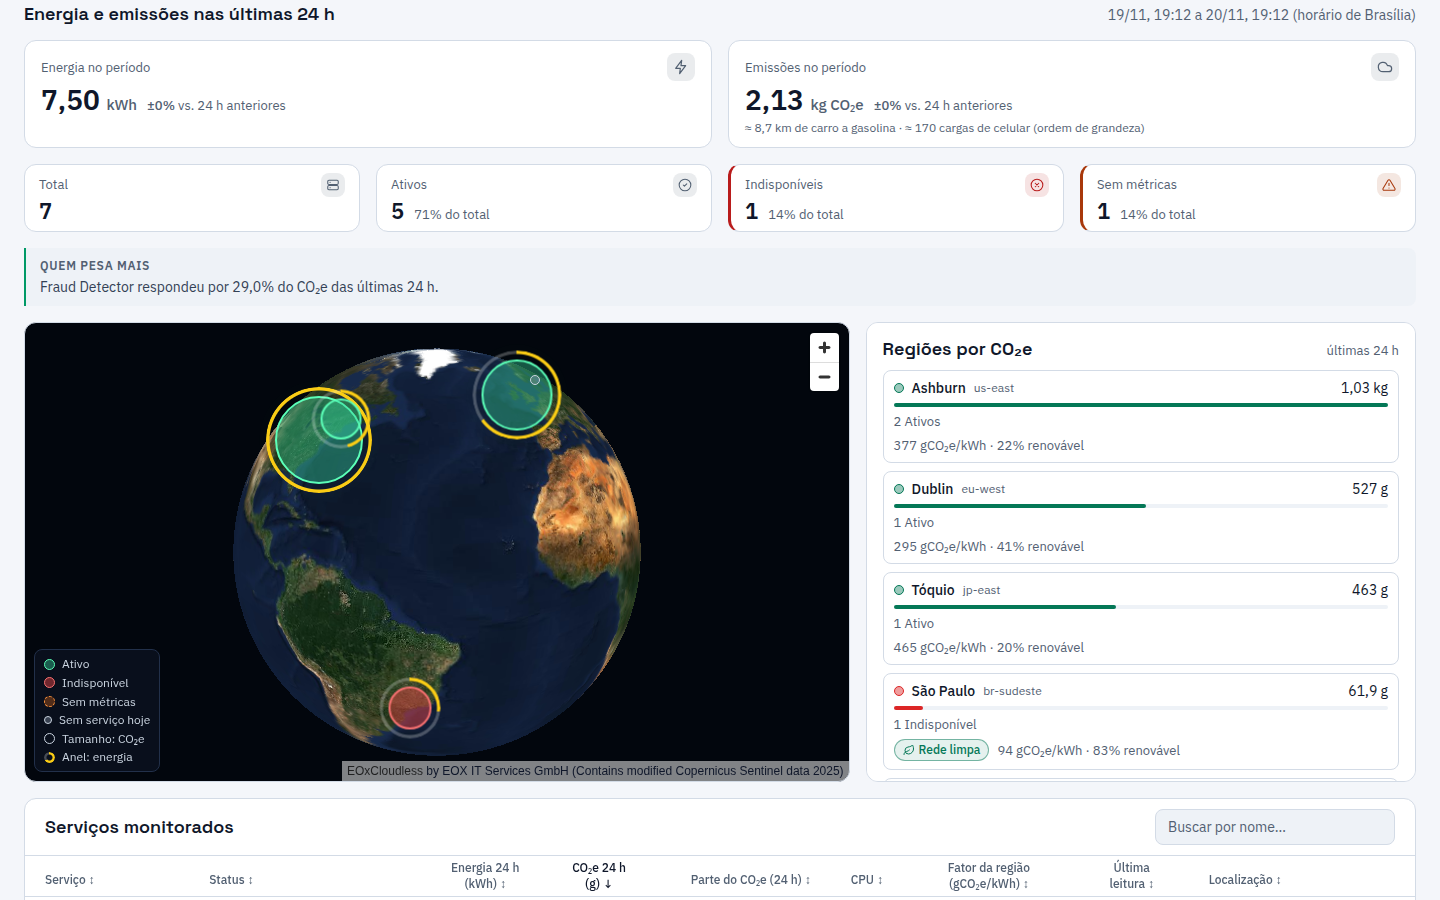
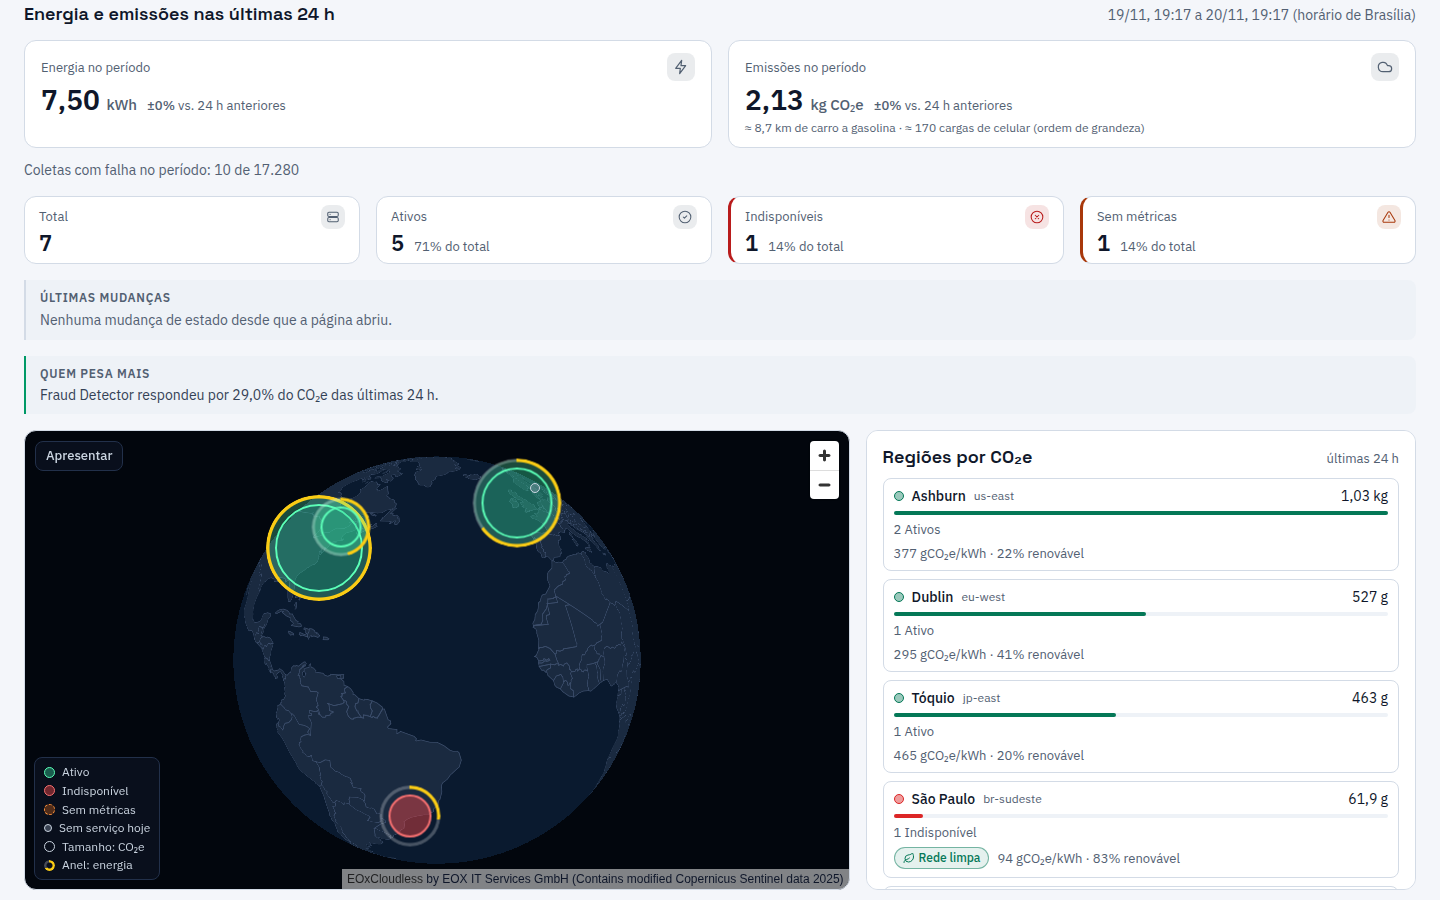
docs(docs): registra RF08 com print do painel (#234) [RF08]

diff --git a/frontend/README.md b/frontend/README.md
@@ -58,7 +58,7 @@ Lidas do `.env` da **raiz** do repositório (modelo em `.env.example`; `envDir: 
 - A mensagem diz o primeiro campo recusado, para quem investiga saber onde olhar: "O servidor respondeu num formato inesperado (services[3].id). Avise a equipe do backend." Um 2xx com corpo que não é JSON gera a mesma mensagem, sem o campo.
 - `monitoring.service.ts` confere `GET`/`PUT /monitoring-settings` (#176): intervalos inteiros maiores que zero, lista de valores não vazia e `updatedAt` em ISO 8601 ou `null`. O `statusReason` de `GET /services` é texto ou `null`, e a chave ausente vale `null`, para a tela funcionar antes e depois de o backend da #176 subir. O mesmo vale para os sete campos da última coleta (#297: `regionCode`, `collectionIntervalSeconds`, `memoryGb`, `diskGb`, `networkGb`, `powerWatts`, `carbonIntensityGco2ePerKwh`): ausentes valem `null`; presentes, precisam ser número ≥ 0 (o intervalo, inteiro ≥ 1) ou `null`, senão a resposta é recusada citando o campo.
 - `auth.service.ts` confere o `token` do login e o `id`/`email` de `GET /auth/me` (#25): um 200 sem token não abre sessão.
-- `fetchServicesSummary` (`GET /services/summary`) e `compare.service.ts` (`GET /services/compare`) conferem a resposta do mesmo jeito (#237): um campo fora do contrato recusa a resposta inteira. No dashboard, o painel de indicadores dá lugar ao erro com **Tentar novamente** (se já havia um resumo, ele continua apagado, como desatualizado); na Comparação, a página mostra o erro e não monta a tabela nem os gráficos.
+- `parseServicesSummaryResponse` (`GET /services/summary`, em `summary.service.ts`) e `compare.service.ts` (`GET /services/compare`) conferem a resposta do mesmo jeito (#237): um campo fora do contrato recusa a resposta inteira. No dashboard, o painel de indicadores dá lugar ao erro com **Tentar novamente** (se já havia um resumo, ele continua apagado, como desatualizado); na Comparação, a página mostra o erro e não monta a tabela nem os gráficos.
 - A página Emissões confere a sua de outro jeito: envelope inválido (`collections` ou `buckets` que não são lista, `totals` fora do formato) recusa a resposta, mas uma coleta ou um intervalo inválido fica de fora sozinho e é contado, e a página avisa quantos foram descartados. As funções `parseCollectionsPage` e `parseSeriesResponse` (`emissions.service.ts`) têm testes próprios.
 
 ## Menu no celular e tooltip único (#274)
@@ -93,11 +93,11 @@ Lidas do `.env` da **raiz** do repositório (modelo em `.env.example`; `envDir: 
 ## Indicadores agregados (RF08)
 
 - `IndicatorsPanel` fica no topo do dashboard, logo abaixo do cabeçalho e acima dos cards de estado (#259: o impacto vem primeiro), e mostra **Energia no período** e **Emissões no período** das **últimas 24 h**, na unidade que o valor pede ("841 Wh", "1,23 kWh", "301 g CO₂e"; [regra das unidades](#unidades-de-energia-e-emissão-271)), com o período no título em horário de Brasília (`timeZone: 'America/Sao_Paulo'`). O estado dos serviços fica só nos cards do `KpiPanel` (#21): o `services` de `GET /api/services/summary` é o estado **atual** e não depende do período, por isso o painel não o repete.
-- O `DashboardPage` chama `GET /api/services/summary` (por `fetchServicesSummary`, em `src/services/services.service.ts`) a cada ciclo do polling, **uma vez**: a resposta traz o período atual (`from`/`to`, as últimas 24 h) e o `previous` com as 24 h anteriores, de mesma duração (contrato de `docs/api.md`, #234). A nota de cada card é a variação com seta: "▲ 12,4% vs 24 h anteriores" em laranja (energia e CO₂e são métricas em que menos é melhor), "▼ 8,1%" em verde e "±0%" em cinza abaixo de 0,5%. De 100% a 999%, sem casa decimal ("▲ 880%"); acima de 999%, "▲ 10×+". Sem cálculo nas 24 h anteriores, a nota é "Sem cálculo no período anterior"; com total anterior zero, a nota é "— vs. 24 h anteriores" e o motivo fica no tooltip. O rótulo base é "vs. 24 h anteriores". O valor exato, com sinal e uma casa, também fica no tooltip; o leitor de tela ouve "subiu" ou "caiu" no lugar da seta.
+- O `DashboardPage` chama `GET /api/services/summary` (por `fetchServicesSummary`, em `src/services/summary.service.ts`, chamado pelo hook `useSummary`) a cada ciclo do polling, **uma vez**: a resposta traz o período atual (`from`/`to`, as últimas 24 h) e o `previous` com as 24 h anteriores, de mesma duração (contrato de `docs/api.md`, #234). A nota de cada card é a variação com seta: "▲ 12,4% vs 24 h anteriores" em laranja (energia e CO₂e são métricas em que menos é melhor), "▼ 8,1%" em verde e "±0%" em cinza abaixo de 0,5%. De 100% a 999%, sem casa decimal ("▲ 880%"); acima de 999%, "▲ 10×+". Sem cálculo nas 24 h anteriores, a nota é "Sem cálculo no período anterior"; com total anterior zero, a nota é "— vs. 24 h anteriores" e o motivo fica no tooltip. O rótulo base é "vs. 24 h anteriores". O valor exato, com sinal e uma casa, também fica no tooltip; o leitor de tela ouve "subiu" ou "caiu" no lugar da seta.
 - Equivalência do CO₂e (#333): abaixo do valor de **Emissões no período**, o card mostra duas unidades do dia a dia ("≈ 8,7 km de carro a gasolina · ≈ 170 cargas de celular (ordem de grandeza)" para 2,13 kg CO₂e), calculadas por `src/utils/equivalents.ts` com os fatores de [docs/calculos.md § Equivalências](../docs/calculos.md#equivalências) — 244,2 g CO₂e/km de carro e 12,4 g CO₂ por carga de celular, da calculadora de equivalências da EPA consultada em 13/11/2026. Dois algarismos significativos no padrão brasileiro; abaixo de 0,01 a unidade vira "< 0,01", nunca zero. O tooltip da linha traz o fator, a fonte e a data de consulta, e o mesmo texto vai num `sr-only`, para quem usa leitor de tela ou toque (sem hover); a linha é só de apresentação e não é gravada. Sem CO₂e calculado (`null`) ou com total zero, ela não aparece.
 - Print do painel com o backend falso (`npm run mock`, 20/11/2026): energia e emissões com a variação contra as 24 h anteriores, vindas da mesma resposta.
 
-  ![Indicadores com variação contra o período anterior](../docs/img/sprint-3-234-indicadores.png)
+  ![Indicadores com variação contra o período anterior](../docs/img/sprint-3-indicadores-agregados.png)
 
 - Sem cálculo no período, o valor é o traço do `MissingValue` ("sem cálculo" para leitor de tela), nunca zero. O painel não tem estado "Comparando…": o período anterior vem na mesma resposta.
 - Um aviso de erro por página (#271): falha do resumo ou da comparação aparece como `ErrorState` abaixo da faixa de falha da lista (`UpdateFailedBanner`, #217), só quando a lista em si não falhou; se a lista falhou com dados na tela, a faixa já diz o que houve. Os cards ficam com os números apagados e a seta da variação sem cor até a próxima busca bem-sucedida.

diff --git a/README.md b/README.md
@@ -197,6 +197,10 @@ O desenvolvimento acontece na branch `develop`; cada funcionalidade entra nesta 
 
 - **DW06 / RP06 / RNF05 — Aplicação inteira com login (#257):** o backend exige `Authorization: Bearer <JWT>` em `/api/services` e `/api/collections` e responde 401 sem token válido; `/health`, o login e `GET /api/monitoring-settings` continuam públicos. No frontend, `/login` é a única página aberta sem sessão: o dashboard, Emissões, Comparação e Configuração levam ao login e, depois dele, voltam para a mesma tela, com os filtros da URL. Sem sessão não há busca nem polling; um token expirado encerra a sessão e o login avisa "Sua sessão expirou.". O modo demonstração, sem backend, continua abrindo direto com dados ilustrativos ([ADR 0009](docs/adr/0009-aplicacao-inteira-com-login.md)).
 
+- **RF08 — Indicadores com período anterior (#234):** o painel de energia e emissões mostra as últimas 24 h e a variação contra as 24 h anteriores, vindas de uma única resposta de `GET /api/services/summary` (com `totals`, `previous` e `servicesByStatus`); sem cálculo no período anterior, o painel diz isso em vez de mostrar 100%. As coletas com falha do período aparecem embaixo dos indicadores.
+
+  ![Indicadores com variação contra o período anterior](docs/img/sprint-3-indicadores-agregados.png)
+
 ## 4. Escopo planejado
 
 > Planejado, **ainda não implementado**. O andamento real está no [quadro do projeto](https://github.com/orgs/DEVassos/projects/6) e no [plano de entregas](docs/plano-de-entregas.md).
